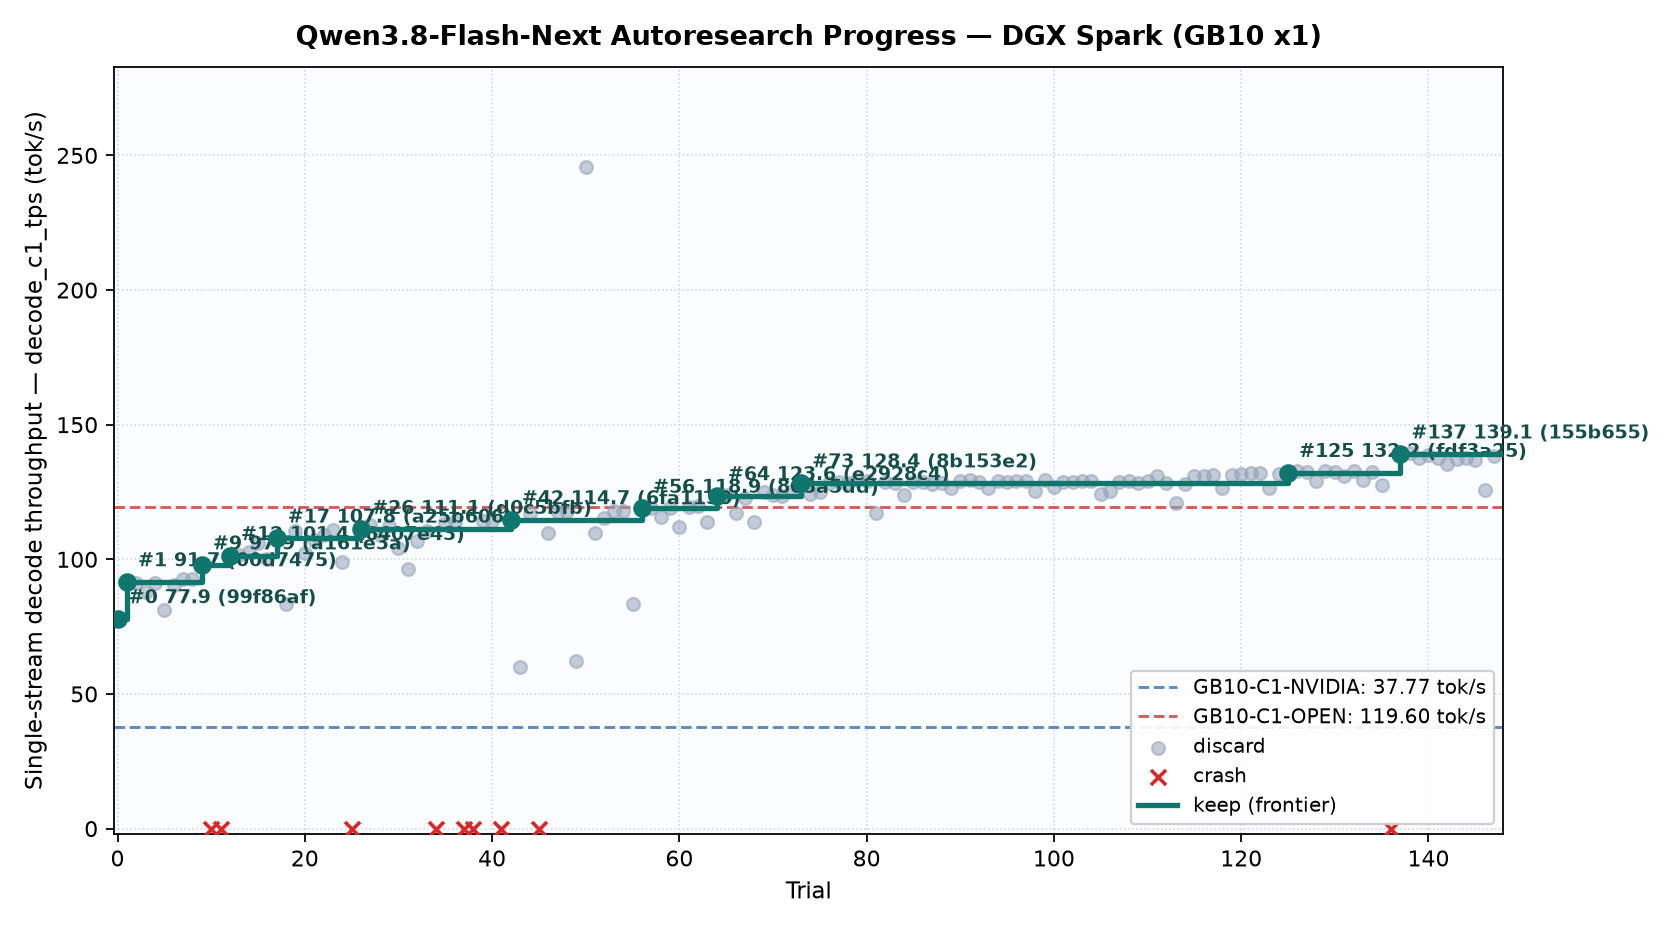
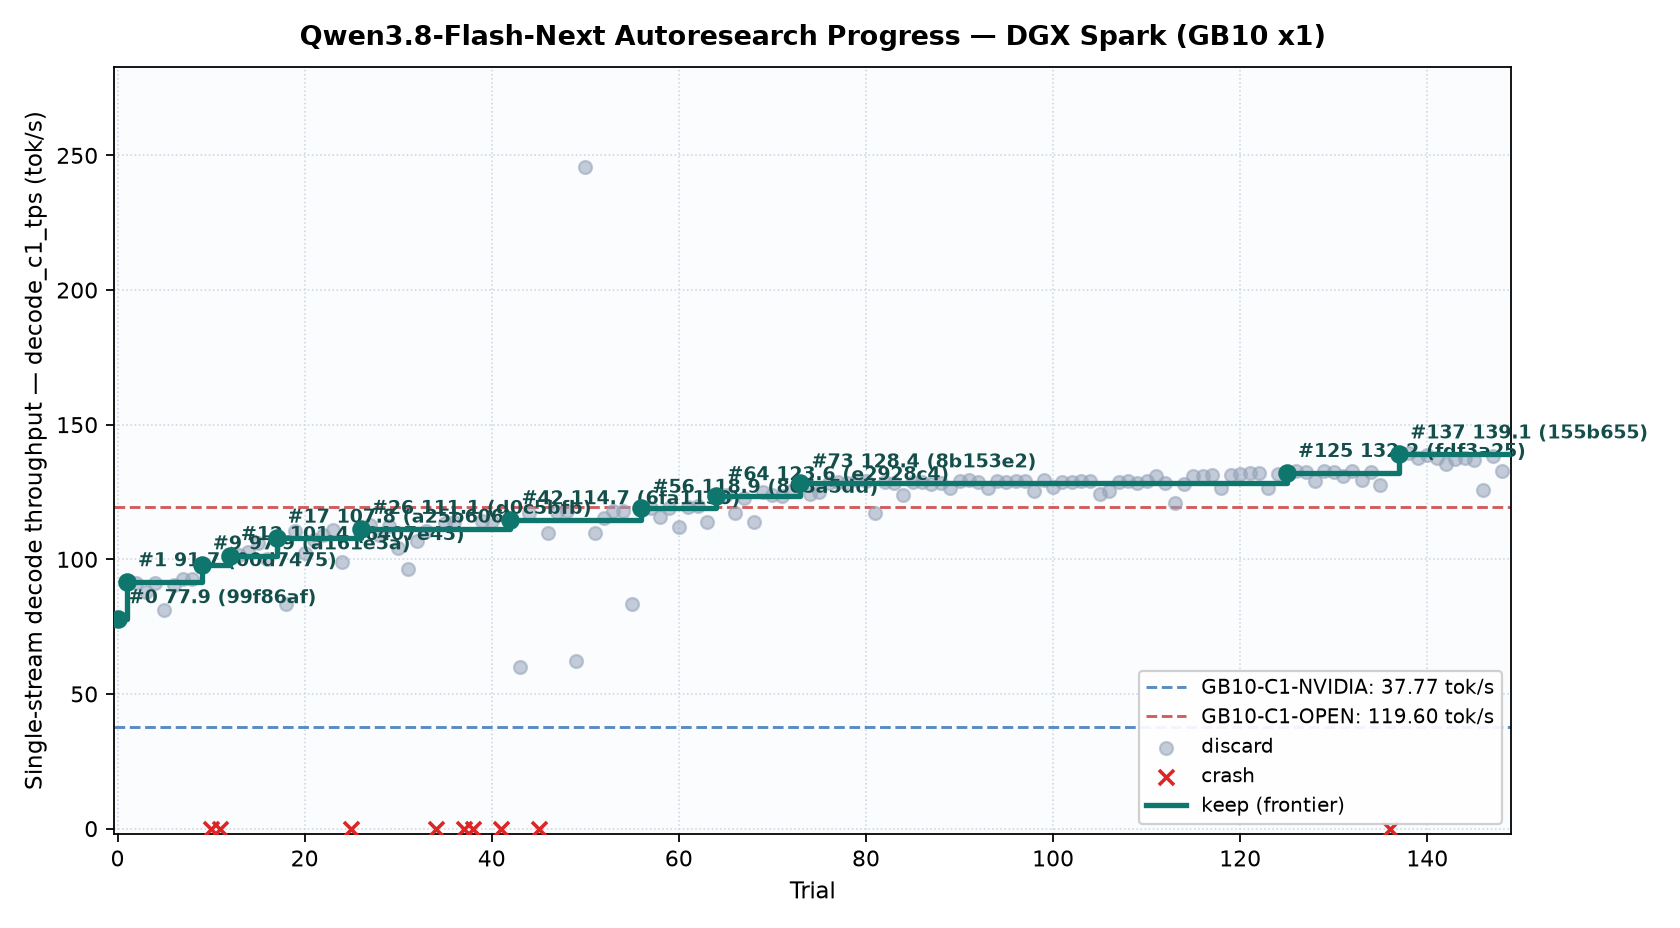
spark trial 148: discard

diff --git a/records/research-log.md b/records/research-log.md
@@ -177,3 +177,4 @@ Deprioritized: **3-bit expert weights** (Hibana +43% but GPQA -0.3, LCB -2.3; on
 | 2026-11-21 23:19 | 145 (new stack) | <https://github.com/ashhart/TensorFold/pull/2952> | Reviewed all six release, commit and PR feeds. TensorFold reports that draft round pricing can differ across tasks on Metal. Trial 140 found that applying the full shortlist mass ratio did not improve the Spark parent. Trial 144 recorded 137.55 tok/s (discard). | Return to the retained proposal coverage. Estimate the unrescored tail multiplier from the clipped mean logit correction per shortlisted token, giving each rescored token equal weight. |
 | 2026-11-21 23:27 | 146 (new stack) | <https://huggingface.co/diffbot/Qwen3.8-Flash-Next-FP4-Local-DGX-Spark/blob/38b78560cc7d4b91287c9d5bb49da728e16f46eb/README.md> | Reviewed all six release, commit and PR feeds. Diffbot publishes 29 dense MTP tensors tuned for agentic workloads. Their BF16 shapes match the NVFP4 checkpoint. Widening the root proposal scan in trial 144 lost 1.12% C1. Trial 145 recorded 136.94 tok/s (discard). | Test those 29 draft tensors with the retained NVFP4 target and verification path. Pin the donor revision and extracted payload SHA-256 and reuse the parent executable. |
 | 2026-11-21 23:33 | 147 (new stack) | <https://huggingface.co/diffbot/Qwen3.8-Flash-Next-FP4-Local-DGX-Spark/blob/38b78560cc7d4b91287c9d5bb49da728e16f46eb/README.md> | Reviewed all six release, commit and PR feeds. Diffbot trained both MTP input projections and the internal draft layer. The full dense transfer underperformed on the fixed prompts. Trial 146 recorded 125.91 tok/s (discard). | Transfer only fc_embedding, fc_hidden and their two input norms, using two checksum-pinned shard ranges. Retain the original draft attention, experts, mixers and NVFP4 target. |
+| 2026-11-21 23:41 | 148 (new stack) | <https://github.com/ashhart/TensorFold/commit/23083788656e38917ca1c0b6dd12adca7f758f5b> | Checked release, commit and PR feeds for all six engines. TensorFold uses affine4 proposal rows. The last two donor-weight transfers fell below the retained head. | Test the existing two-bit proposal pack with the retained 65536-row scan, 64-way BF16 rescoring and calibrated stopping. |
